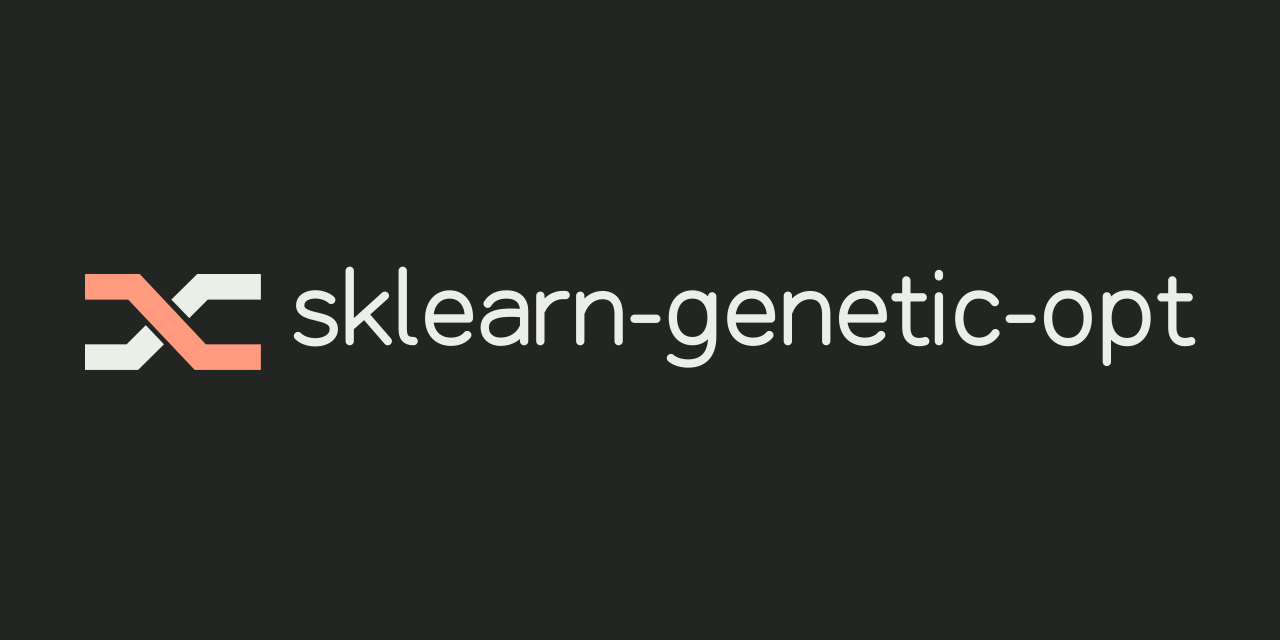
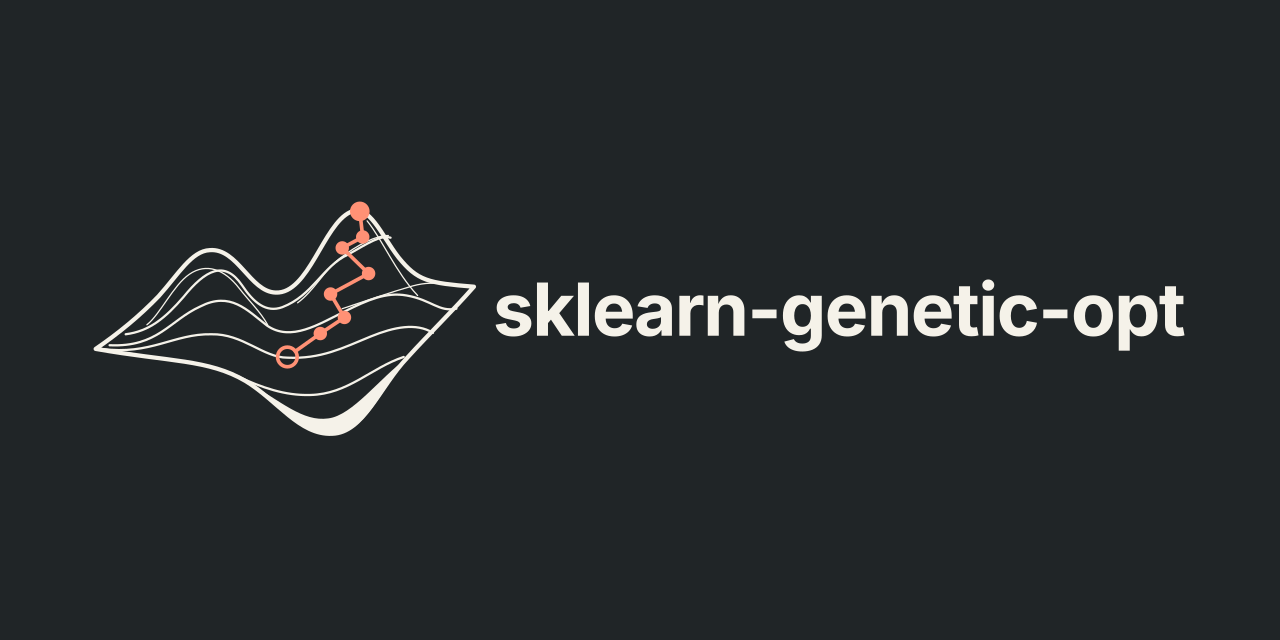
Apply the approved optimization landscape to the documentation and README

Changed region(s): [[0.0625, 0.3125, 0.9375, 0.6875]]

diff --git a/docs-vitepress/.vitepress/config.ts b/docs-vitepress/.vitepress/config.ts
@@ -353,7 +353,7 @@ export default defineConfig({
   ],
 
   themeConfig: {
-    logo: { src: '/brand/logo-horizontal.svg', alt: 'sklearn-genetic-opt' },
+    logo: { src: '/brand/logo-nav.svg', alt: 'sklearn-genetic-opt' },
     siteTitle: false,
 
     nav: [

diff --git a/docs-vitepress/.vitepress/theme/custom.css b/docs-vitepress/.vitepress/theme/custom.css
@@ -1,6 +1,6 @@
 :root {
   color-scheme: light;
-  --vp-nav-logo-height: 25px;
+  --vp-nav-logo-height: 32px;
   --vp-c-brand-1: #a53624;
   --vp-c-brand-2: #923020;
   --vp-c-brand-3: #903120;
